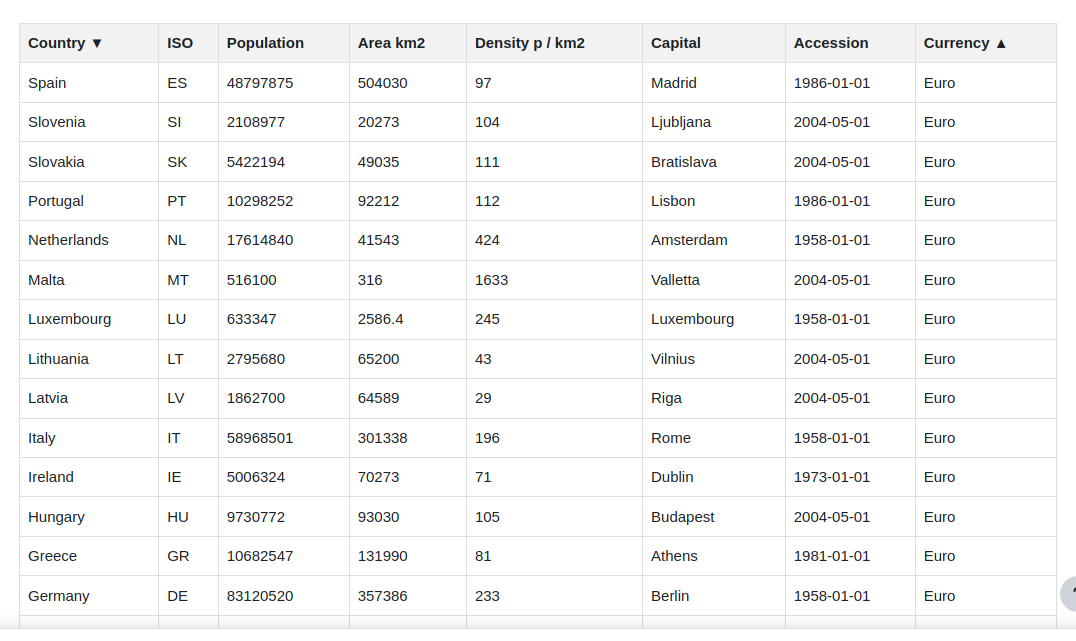
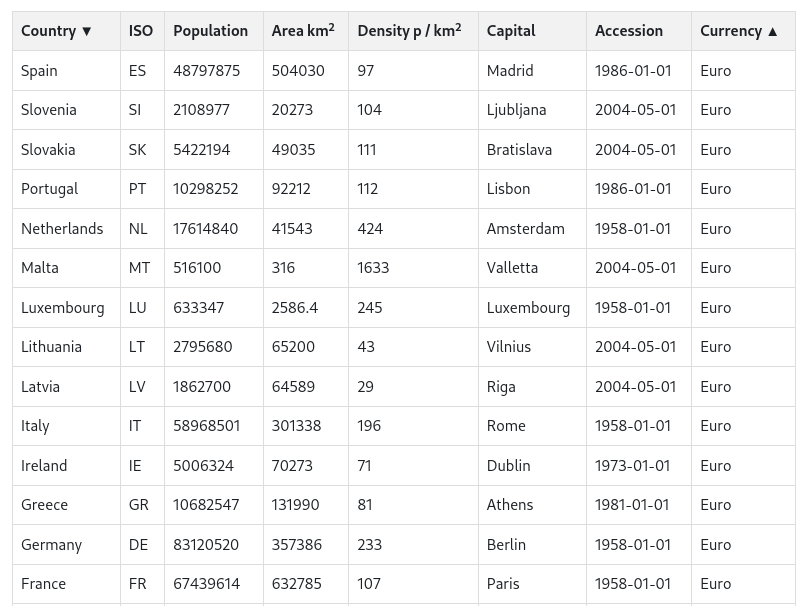
Fix currencies and add explanation to updated screenshot in multisort table.

diff --git a/table-multisort/README.md b/table-multisort/README.md
@@ -11,6 +11,13 @@ plugin for Wordpress and adapted to be generic for the database activity in Mood
 
 </div>
 
+To get to that table view, the fist click is done on the column currency to sort the
+entries by currency in ascending order. This makes all Euro countries show up first.
+The second click is done on the country column that sorts the countries in ascending
+order. The third click is again done on the country column to reverse the order to
+descending. A country with a currency not being the Euro is not shown here in the
+screenshot because it appears at the bottom of the list.
+
 ### Technical details
 
 The *List view template* is modified. The datasets are written as HTML to the page.
